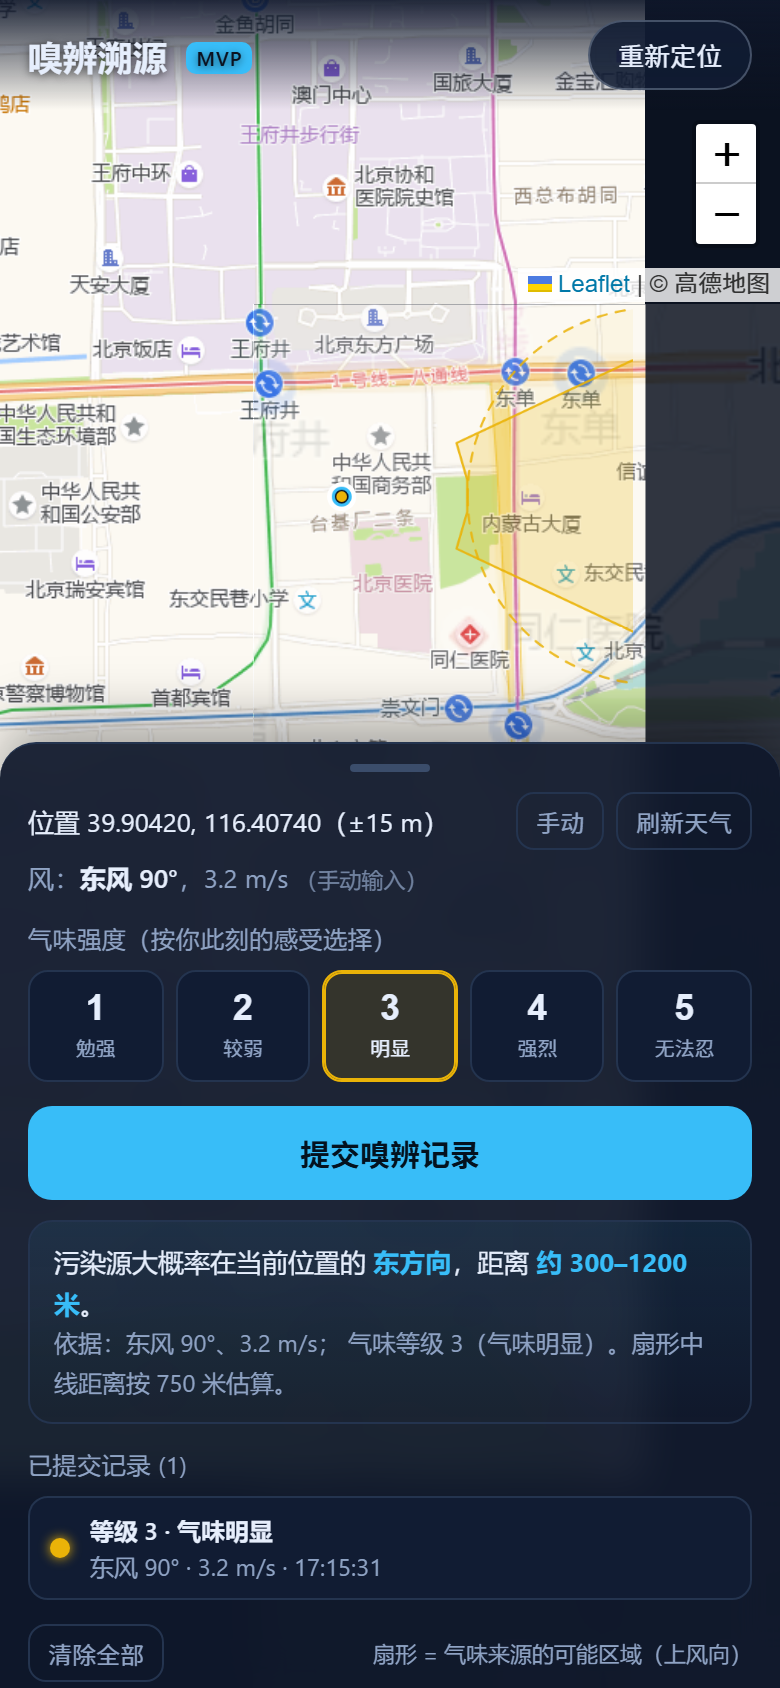
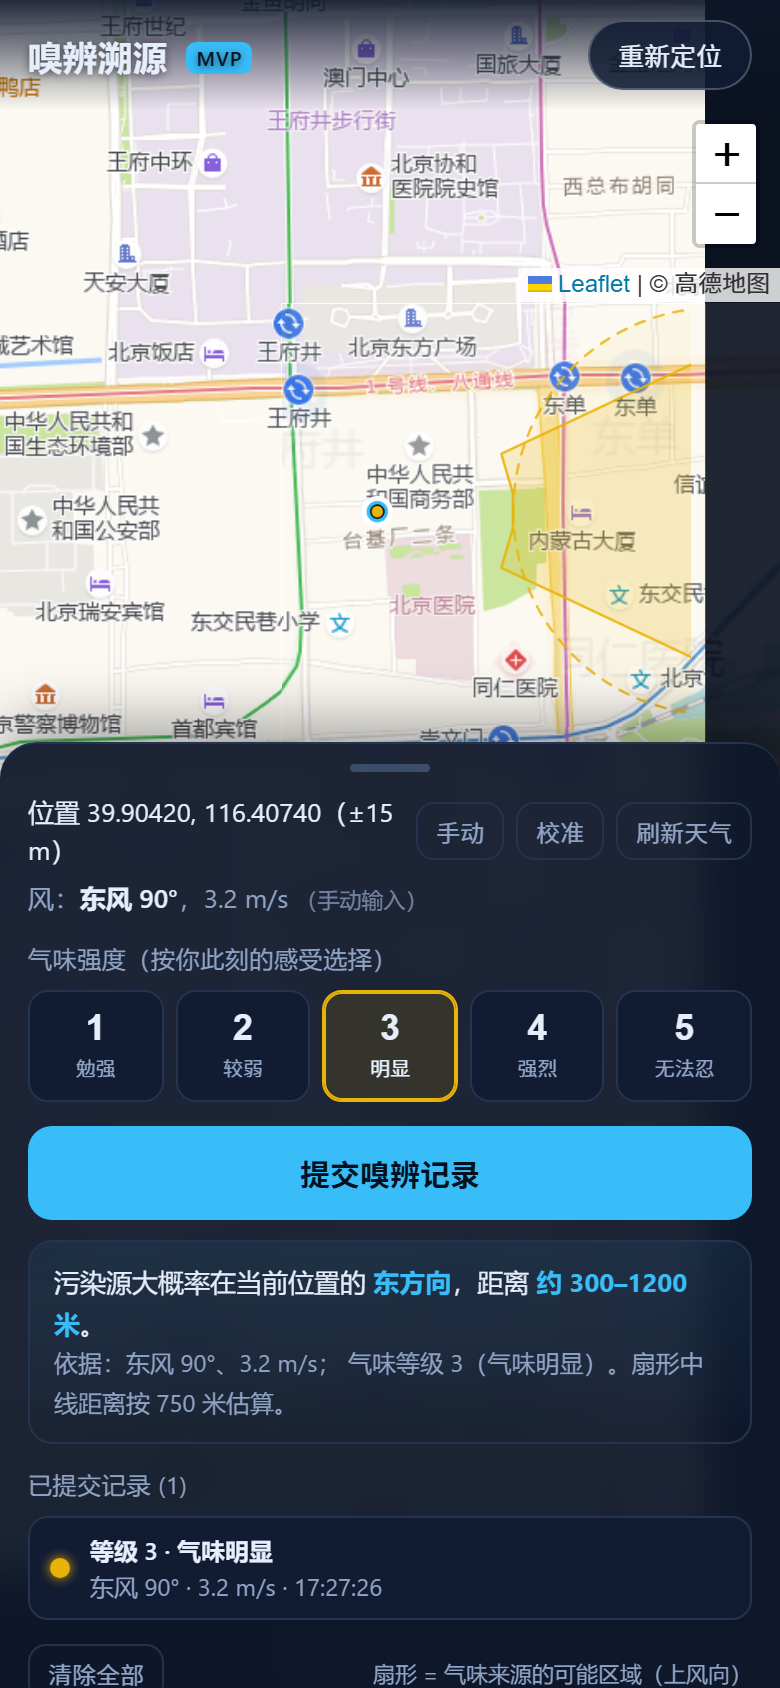
定位精度改进：8秒连续采样取最优、精度提示；微信内提示；一键地图校准并记住本机偏移；SW v6

Changed region(s): [[0.0, 0.0, 0.9846, 1.0], [0.0, 0.0308, 0.0615, 0.0924], [0.0, 0.1232, 0.0308, 0.154]]

diff --git a/js/app.js b/js/app.js
@@ -31,7 +31,24 @@ const state = {
   selectedLevel: null,
   records: [],
   seq: 0,
+  calib: null,        // 本机定位系统偏移（设备坐标系不是 WGS-84 时用）
+  lastRawFix: null,   // 最近一次原始 GPS（未经校准）
+  calibrating: false,
 };
+
+const CALIB_KEY = 'odor_calib_v1';
+
+function loadCalib() {
+  try {
+    const v = JSON.parse(localStorage.getItem(CALIB_KEY) || 'null');
+    if (v && Number.isFinite(v.dLat) && Number.isFinite(v.dLon) &&
+        Math.abs(v.dLat) < 0.05 && Math.abs(v.dLon) < 0.05) {
+      return v;
+    }
+  } catch (_) { /* 隐私模式等 */ }
+  return null;
+}
+state.calib = loadCalib();
 
 const $ = (id) => document.getElementById(id);
 const els = {
@@ -51,6 +68,8 @@ const els = {
   mwDir: $('mwDir'),
   mwSpd: $('mwSpd'),
   mwApply: $('mwApply'),
+  calib: $('btnCalib'),
+  envHint: $('envHint'),
 };
 
 /* ---------------- 地图 ---------------- */
@@ -177,6 +196,105 @@ function describeGeoError(err) {
   return '定位失败，可点击地图手动设置位置。';
 }
 
+let geoWatch = null;
+let geoTimer = null;
+let geoBest = null;
+let geoFirstFix = false;
+
+function stopGeoWatch() {
+  if (geoWatch != null) {
+    navigator.geolocation.clearWatch(geoWatch);
+    geoWatch = null;
+  }
+  if (geoTimer) {
+    clearTimeout(geoTimer);
+    geoTimer = null;
+  }
+}
+
+/** 实时落点：只更新位置显示与标记，不重复请求天气 */
+function applyFix(lat, lon, acc) {
+  state.lastRawFix = { lat, lon, acc: acc == null ? null : acc };
+  const c = state.calib;
+  const plat = lat + (c ? c.dLat : 0);
+  const plon = lon + (c ? c.dLon : 0);
+  state.lat = plat;
+  state.lon = plon;
+  state.accuracy = acc == null ? null : acc;
+  state.manualLocation = false;
+  setCurrentMarker(plat, plon, state.accuracy);
+  const poor = state.accuracy != null && state.accuracy > 100;
+  els.loc.textContent =
+    `位置 ${plat.toFixed(5)}, ${plon.toFixed(5)}` +
+    (state.accuracy != null
+      ? `（±${Math.round(state.accuracy)} m${poor ? '，精度较低，可点地图校正' : ''}）`
+      : '') +
+    (c ? ' · 已校准' : '');
+  els.loc.classList.toggle('poor', poor);
+  updateSubmitState();
+}
+
+function updateCalibButton() {
+  els.calib.textContent = state.calib ? '清除校准' : '校准';
+  els.calib.classList.toggle('on', state.calibrating);
+}
+
+/** 用地图点校正本机 GPS 的系统性偏移，并记住 */
+function toggleCalibration() {
+  if (state.calibrating) {
+    state.calibrating = false;
+    updateCalibButton();
+    setWarn('已取消校准。');
+    return;
+  }
+  if (state.calib) {
+    state.calib = null;
+    try { localStorage.removeItem(CALIB_KEY); } catch (_) { /* 忽略 */ }
+    state.calibrating = false;
+    updateCalibButton();
+    if (state.lastRawFix) {
+      applyFix(state.lastRawFix.lat, state.lastRawFix.lon, state.lastRawFix.acc);
+      refreshWeather(true);
+    }
+    setWarn('已清除位置校准。');
+    return;
+  }
+  if (!state.lastRawFix) {
+    setWarn('请先点「重新定位」拿到 GPS 位置，再点校准。', true);
+    return;
+  }
+  state.calibrating = true;
+  updateCalibButton();
+  setWarn('校准：请在地图上点一下你此刻的真实位置。', true);
+}
+
+function applyCalibration(tLat, tLon) {
+  const raw = state.lastRawFix;
+  if (!raw) {
+    state.calibrating = false;
+    updateCalibButton();
+    setWarn('没有可用的 GPS 基准，请先重新定位。', true);
+    return;
+  }
+  const dLat = tLat - raw.lat;
+  const dLon = tLon - raw.lon;
+  const dist = Math.hypot(
+    dLat * 111320,
+    dLon * 111320 * Math.cos(tLat * Math.PI / 180)
+  );
+  if (dist > 3000) {
+    setWarn(`点选位置与 GPS 相差约 ${Math.round(dist)} 米，偏差过大，未保存。请确认点的是你当前实际位置。`, true);
+    return;
+  }
+  state.calib = { dLat, dLon };
+  try { localStorage.setItem(CALIB_KEY, JSON.stringify(state.calib)); } catch (_) { /* 忽略 */ }
+  state.calibrating = false;
+  updateCalibButton();
+  applyFix(raw.lat, raw.lon, raw.acc);
+  refreshWeather(true);
+  setWarn(`已校准：本机定位偏差约 ${Math.round(dist)} 米，之后会自动修正。`);
+}
+
 function locate() {
   clearWarn();
   if (!navigator.geolocation) {
@@ -190,19 +308,49 @@ function locate() {
     );
     return;
   }
-  els.loc.textContent = '正在定位…';
-  navigator.geolocation.getCurrentPosition(
-    (pos) => {
-      const { latitude, longitude, accuracy } = pos.coords;
-      state.manualLocation = false;
-      setLocation(latitude, longitude, accuracy);
-    },
-    (err) => {
+
+  // 连续采样最多 8 秒，取最准的一次；精度 ≤20 m 时提前结束
+  stopGeoWatch();
+  geoBest = null;
+  geoFirstFix = false;
+  els.loc.textContent = '正在定位（提高精度中…）';
+
+  const onPos = (pos) => {
+    const { latitude, longitude, accuracy } = pos.coords;
+    const acc = accuracy == null ? null : accuracy;
+    if (!geoBest || (acc != null && (geoBest.acc == null || acc < geoBest.acc))) {
+      geoBest = { lat: latitude, lon: longitude, acc };
+    }
+    applyFix(latitude, longitude, acc);
+    if (!geoFirstFix) {
+      geoFirstFix = true;
+      refreshWeather(true); // 第一次拿到位置就取当地天气
+    }
+    if (acc != null && acc <= 20) stopGeoWatch();
+  };
+
+  const onErr = (err) => {
+    stopGeoWatch();
+    if (geoBest) return; // 已经拿到位置就不打断
+    els.loc.textContent = '未获取到定位';
+    setWarn(describeGeoError(err), true);
+  };
+
+  geoWatch = navigator.geolocation.watchPosition(onPos, onErr, {
+    enableHighAccuracy: true,
+    timeout: 15000,
+    maximumAge: 0, // 不使用缓存位置，避免拿到几分钟前的旧点
+  });
+
+  geoTimer = setTimeout(() => {
+    stopGeoWatch();
+    if (geoBest) {
+      applyFix(geoBest.lat, geoBest.lon, geoBest.acc);
+    } else {
       els.loc.textContent = '未获取到定位';
-      setWarn(describeGeoError(err), true);
-    },
-    { enableHighAccuracy: true, timeout: 12000, maximumAge: 60000 }
-  );
+      setWarn('定位超时，可点击地图手动设置位置。', true);
+    }
+  }, 8000);
 }
 
 function setLocation(lat, lon, acc, manual = false) {
@@ -215,6 +363,7 @@ function setLocation(lat, lon, acc, manual = false) {
     `位置 ${lat.toFixed(5)}, ${lon.toFixed(5)}` +
     (state.accuracy ? `（±${Math.round(state.accuracy)} m）` : '') +
     (manual ? ' · 手动标点' : '');
+  els.loc.classList.remove('poor');
   updateSubmitState();
   refreshWeather(true);
 }
@@ -518,9 +667,14 @@ els.submit.addEventListener('click', addRecord);
 els.clear.addEventListener('click', clearAll);
 els.manualBtn.addEventListener('click', () => els.manual.classList.toggle('hidden'));
 els.mwApply.addEventListener('click', applyManualWind);
+els.calib.addEventListener('click', toggleCalibration);
 
 map.on('click', (e) => {
   const [lat, lon] = gcj02ToWgs84(e.latlng.lat, e.latlng.lng);
+  if (state.calibrating) {
+    applyCalibration(lat, lon);
+    return;
+  }
   setLocation(lat, lon, null, true);
 });
 
@@ -529,6 +683,14 @@ map.on('click', (e) => {
 renderLevelButtons();
 renderRecords();
 updateSubmitState();
+updateCalibButton();
+
+if (/MicroMessenger/i.test(navigator.userAgent)) {
+  els.envHint.textContent =
+    '当前在微信内打开，定位可能偏差较大。请点右上角「…」选择「在浏览器打开」，' +
+    '并允许「精确位置」。';
+  els.envHint.classList.remove('hidden');
+}
 
 if (!window.isSecureContext) {
   setWarn(

diff --git a/test/e2e_cdp.js b/test/e2e_cdp.js
@@ -244,8 +244,42 @@ async function shot(cdp, filename) {
       return JSON.stringify(res);
     })()`));
 
+    // 低精度定位：应明确提示「精度较低」并引导手动校正
+    await cdp.send('Emulation.setGeolocationOverride', {
+      latitude: 39.9042, longitude: 116.4074, accuracy: 500,
+    });
+    await evalJs(cdp, 'locate(); true');
+    await sleep(1200);
+    report.poorAccuracy = JSON.parse(await evalJs(cdp,
+      'JSON.stringify({text:document.getElementById("locText").innerText,' +
+      'poor:document.getElementById("locText").classList.contains("poor")})'));
+    await evalJs(cdp, 'stopGeoWatch(); true');
+
+    // 位置校准：点地图真实位置 → 保存本机偏移 → 新 GPS 自动套用 → 可清除
+    report.calibration = JSON.parse(await evalJs(cdp, `(() => {
+      toggleCalibration();
+      const started = state.calibrating;
+      const raw = state.lastRawFix;
+      const g = wgs84ToGcj02(raw.lat + 0.0027, raw.lon); // 真实位置在 GPS 以北约 300 m
+      map.fire('click', { latlng: L.latLng(g[0], g[1]) });
+      const saved = localStorage.getItem('odor_calib_v1');
+      const d = state.calib;
+      applyFix(raw.lat, raw.lon, 20); // 下一次 GPS 应自动套用偏移
+      const text = document.getElementById('locText').innerText;
+      toggleCalibration(); // 清除
+      return JSON.stringify({
+        started,
+        saved: saved ? JSON.parse(saved) : null,
+        dLat: d && d.dLat, dLon: d && d.dLon,
+        text,
+        cleared: state.calib,
+        lsAfter: localStorage.getItem('odor_calib_v1'),
+        btn: document.getElementById('btnCalib').textContent,
+      });
+    })()`));
+
     // 地图点击 → GCJ-02 反算为 WGS-84
-    const { gcj02ToWgs84 } = require('../js/coords.js');
+    const { gcj02ToWgs84, wgs84ToGcj02 } = require('../js/coords.js');
     await evalJs(cdp, 'map.fire("click", {latlng: L.latLng(39.9070, 116.4130)}); true');
     await sleep(400);
     const got = JSON.parse(await evalJs(cdp, 'JSON.stringify({lat:state.lat, lon:state.lon})'));
@@ -253,6 +287,16 @@ async function shot(cdp, filename) {
     report.clickInverseOk =
       Math.abs(got.lat - exp[0]) < 1e-6 && Math.abs(got.lon - exp[1]) < 1e-6;
     report.clickInverse = { got, expected: { lat: exp[0], lon: exp[1] } };
+
+    // 坐标基准自检：天安门 WGS-84 转换后应落在高德图上的天安门
+    const tam = wgs84ToGcj02(39.908692, 116.397477);
+    await evalJs(cdp,
+      `map.setView([${tam[0] - 0.0015}, ${tam[1]}], 17); ` +
+      `L.circleMarker([${tam[0]}, ${tam[1]}], {radius:8,color:'#ffdd00',weight:3,` +
+      `fillColor:'#ffdd00',fillOpacity:1}).addTo(map); true`);
+    await sleep(3000);
+    await shot(cdp, '_e2e_landmark.png');
+    report.landmarkGcj = { lat: tam[0], lon: tam[1] };
 
     ws.close();
   } finally {

diff --git a/index.html b/index.html
@@ -30,6 +30,7 @@
       <span id="locText" class="loc">正在定位…</span>
       <span class="btns">
         <button id="btnManual" class="ghost small">手动</button>
+        <button id="btnCalib" class="ghost small">校准</button>
         <button id="btnRefresh" class="ghost small">刷新天气</button>
       </span>
     </div>
@@ -40,6 +41,7 @@
       <button id="mwApply" class="ghost small">应用</button>
     </div>
     <div id="warnText" class="warn hidden"></div>
+    <div id="envHint" class="warn hidden"></div>
   </div>
 
   <div class="block-title">气味强度（按你此刻的感受选择）</div>

diff --git a/css/app.css b/css/app.css
@@ -102,7 +102,9 @@ html, body {
 
 .status { margin-bottom: 10px; }
 .status-row { display: flex; align-items: center; justify-content: space-between; gap: 8px; }
-.loc { font-size: 13px; color: var(--text); }
+.loc { font-size: 13px; color: var(--text); line-height: 1.5; flex: 1; min-width: 0; }
+.loc.poor { color: #fbbf24; }
+.ghost.on { color: var(--accent); border-color: var(--accent); }
 .weather { font-size: 13px; color: var(--muted); margin-top: 4px; line-height: 1.5; }
 .weather b { color: var(--text); font-weight: 600; }
 .weather .src { font-size: 11px; opacity: .75; }

diff --git a/sw.js b/sw.js
@@ -1,7 +1,7 @@
 /* 离线壳：缓存页面与静态资源；天气和地图瓦片仍走网络 */
 'use strict';
 
-const CACHE = 'odor-mvp-v5';
+const CACHE = 'odor-mvp-v6';
 const ASSETS = [
   './',
   'index.html',

diff --git a/README.md b/README.md
@@ -31,6 +31,15 @@
 4. 点击「提交嗅辨记录」→ 地图上画出**上风向扇形**和**估算位置圈**
 5. 换几个位置重复提交，多个扇形交叠处即最可能的污染源区域
 
+## 定位不准怎么办
+
+页面会显示定位精度（± 米）。连续采样 8 秒取最准的一次，精度 ≤ 20 米自动结束。
+
+1. **手机系统里允许「精确位置」**：Android 12+/iOS 13+ 的定位授权有「精确 / 大致」开关，网页拿不到精确位置时误差可达公里级。
+2. **不要用微信内置浏览器打开**：微信 WebView 常用网络定位，误差大且可能返回高德 GCJ 坐标。点右上角「…」→「在浏览器打开」。
+3. **一键校准**：如果蓝点与真实位置有稳定的偏移（常见是约 500–600 米，方向基本一致，多为设备返回 GCJ 坐标被再次转换），点「校准」，再在地图上点一下你此刻的真实位置。偏移会保存在本机，之后自动修正；按「清除校准」可恢复。
+4. 临时使用可直接点地图任意位置手动标点（显示「手动标点」）。
+
 ## 关键点
 
 - **手机定位需要 HTTPS**。局域网 `http://IP:8123` 下浏览器不会弹出定位授权，此时点地图手动标点即可，天气与溯源功能不受影响。（要真机自动定位，需要 HTTPS 隧道或打包成 APK 使用原生定位。）
